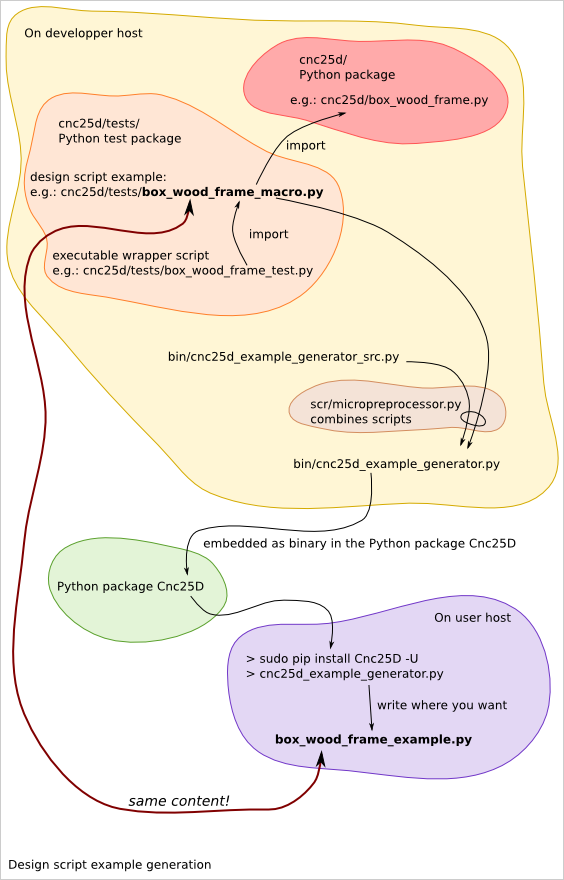
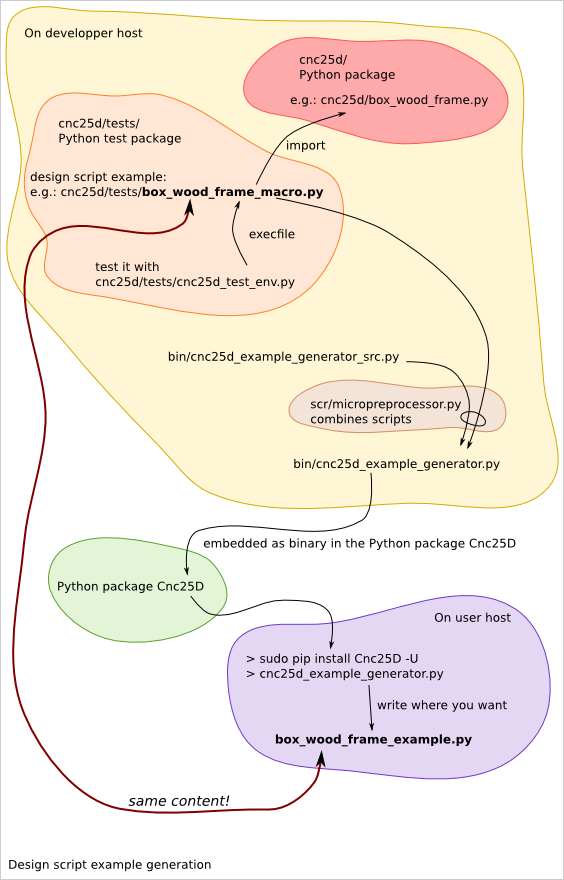
[test-macro] doc the new test-macro environment

Changed region(s): [[0.0904, 0.2761, 0.5426, 0.3375], [0.4521, 0.2455, 0.5124, 0.2761]]

diff --git a/docs/cnc25d_internals.rst b/docs/cnc25d_internals.rst
@@ -26,11 +26,9 @@ File layout
       box_wood_frame.py                 # box_wood_frame design example
       tests/                       # contains the test files of the cnc25d package
         __init__.py
-        importing_cnc25d.py        # modify sys.path to import the cnc25d library
-        cnc25d_api_macro.py        # usage example of the cnc25d API. Reused by cnc25d_example_generator.py. Can not be executed directly.
-        cnc25d_api_test.py         # executable wrapper of cnc25d_api_macro.py
-        box_wood_frame_macro.py    # usage example of box_wood_frame. Reused by cnc25d_example_generator.py. Can not be executed directly.
-        box_wood_frame_test.py     # executable wrapper of box_wood_frame_macro.py
+        cnc25d_test_env.py          # modify sys.path to import the cnc25d library and then execute one of the following macro-scripts
+        cnc25d_api_macro.py         # usage example of the cnc25d API. Reused by cnc25d_example_generator.py. Can not be executed directly.
+        box_wood_frame_macro.py     # usage example of box_wood_frame. Reused by cnc25d_example_generator.py. Can not be executed directly.
     docs/                               # cnc25d package documentation sources
       box_wood_frame.svg                # SVG draft
       box_wood_frame.txt                # text autmatically extracted from the SVG draft
@@ -48,7 +46,9 @@ File layout
 
 Design example generation
 =========================
-The binary script *cnc25d_example_generator.py* just writes example scripts. These example scripts are actually the files *cnc25d/tests/cnc25d_api_macro.py* and *cnc25d/tests/box_wood_frame_macro.py*. To check these example scripts, you must run their wrapper *scripts cnc25d/tests/cnc25d_api_test.py* and *cnc25d/tests/box_wood_frame_test.py*.
+The binary script *cnc25d_example_generator.py* just writes example scripts. These example scripts are actually the files *cnc25d/tests/cnc25d_api_macro.py* and *cnc25d/tests/box_wood_frame_macro.py*. To check these example scripts, you must run them with *cnc25d_test_env.py*::
+
+  > cnc25d/tests/cnc25d_test_env.py  cnc25d/tests/box_wood_frame_macro.py
 
 Because of the Python package workflow, the example scripts can not be copied after the installation and must be embedded in the binary script *cnc25d_example_generator.py* before the creation of the Python package distribution. This is the purpose of the script *scr/micropreprocessor.py*. The file *bin/cnc25d_example_generator_src.py* contains the skeleton of the script *bin/cnc25d_example_generator.py*. The following command include the example scripts to generate the final script *bin/cnc25d_example_generator.py*::
 
@@ -59,7 +59,7 @@ The purpose of this workflow is to help the maintenance of the generated example
 To create a new design example, follow those steps:
 
 - Create the new design example file in the directory *Cnc25D/cnc25d/tests/* with a file name such as *my_new_design_macro.py*
-- Create a wrapper script (eg: *my_new_design_test.py*) in the same directory that imports the cnc25d package to let run the script *my_new_design_macro.py*
+- Check by executing it with *cnc25d/tests/cnc25d_test_env.py*
 - Add the few lines in the file *Cnc25D/bin/cnc25d_example_generator_src.py* that includes the new script *Cnc25D/cnc25d/tests/my_new_design_macro.py*
 - Regenerate *Cnc25D/bin/cnc25d_example_generator.py* with the command::
   

diff --git a/docs/cnc25d_presentation.rst b/docs/cnc25d_presentation.rst
@@ -254,6 +254,8 @@ Release 0.1.7
 -------------
 Released on 2013-11-01
 
+* unify the test-environment of the macro-scripts
+* use python-dictionary as function-argument for designs with many parameters
 * gearring (aka annulus)
 * gearbar (aka rack)
 * epicyclic
